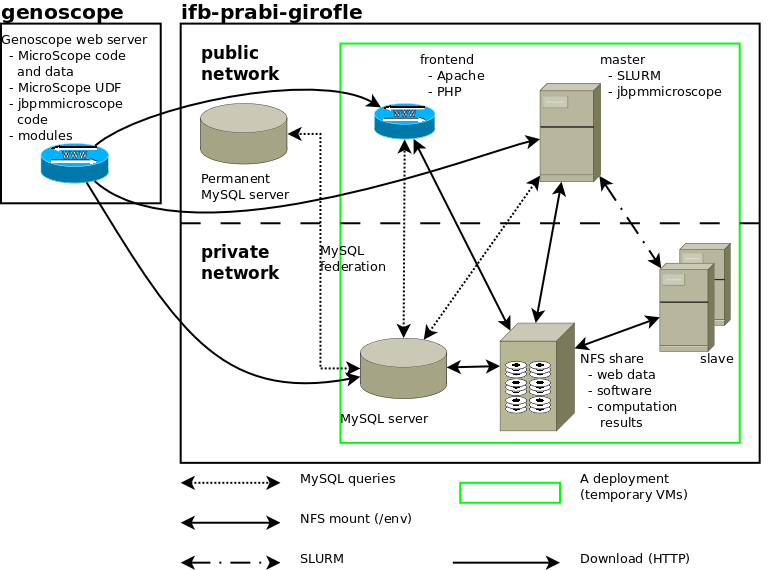
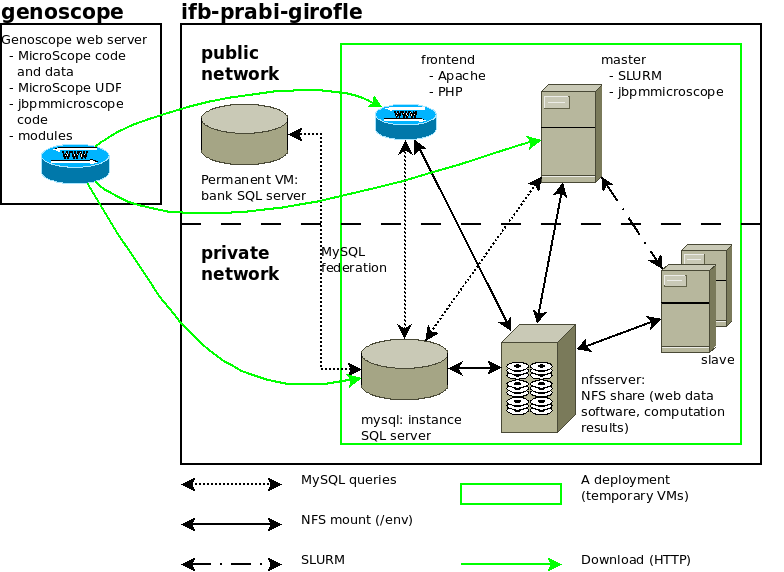
[Report] Large rewrite to add a section on technical choices.
- New chapter on technical details containing overview of the
    architecture (from architecture.tex) and bits from "Informations
    Logiciels"; links to this chapter
  - Rename architecture.tex -> deploiement_VM.tex + promote headings
  - Remove the infamous chapter "Informations Logiciels"
  - Modify the figure (it can no longer pretend to be the logical
    architecture though)

diff --git a/Rapport/deploiement_VM.tex b/Rapport/deploiement_VM.tex
@@ -1,4 +1,4 @@
-\chapter{Architecture}
+\chapter{Installation et déploiement des VM} \label{chap:deploiement_VM}
 
 Dans ce chapitre, on ne fait pas toujours la distinction entre un composant (au sens de composant SlipStream)
 et une VM (qui est un composant déployé).
@@ -10,39 +10,8 @@ Le contexte devrait permettre d'éviter toute ambiguïté.
 
 \section{Vue d'ensemble}
 
-La vue d'ensemble de l'architecture est présentée dans la~\autoref{fig:architecture}.
 Il y 5 composants Nuvla et
 1 VM permanente déployée sur le cloud \cloudInstance{ifb-prabi-girofle}.
-
-\begin{figure}[htp]
-    \centering
-    \includegraphics[width=\linewidth]{../Logical_Architecture}
-    \caption{Schéma de l'architecture de MicroCloud.}
-    \label{fig:architecture}
-\end{figure}
-
-Un des buts est de mimer ce qui est fait au Genoscope
-c'est-à-dire que:
-\begin{enumerate}
-    \item Les différents composants (serveur web, serveur de BD, etc.) tournent sur des machines séparées.
-    \item Les calculs tournent sur des machines séparées: l'architecture contient donc un cluster (basé sur SLURM).
-\end{enumerate}
-Une des seules différences est que le serveur \component{jbpmmicroscope} tourne
-sur la machine frontale du cluster.
-
-Lors du déploiement, les VM téléchargent des fichiers (code et données) depuis le serveur web du Genoscope.
-Ces fichiers sont crées par le module \micWEBdeployVer{} (voir~\autoref{chap:micwebdeploy}).
-Le gros du travail du travail est fait dans les scripts de la phase Deployment (script \script{04\_Deployment.sh} de chaque composant SlipStream).
-Ceci a été fait pour simplifier les scripts d'installation et ne pas fixer les versions de MicroScope à ces étapes.
-
-Il y a 2 serveurs de bases de données dans MicroCloud\todo{Renvoyer à section choix techniques.}:
-\begin{itemize}
-    \item Un serveur MySQL installé via Docker dans la VM MySQL.
-    \item Un serveur MySQL sur la VM permanente.
-\end{itemize}
-
-\section {Installation et déploiement des VM}
-
 Le code des composants Nuvla est dans le dépôt \project{biosphere-microcloud}.
 Il y a un dossier par composant et un fichier \filename{README.md} dans chaque dossier qui explique des détails.
 Les principes du déploiement sont décrits sur le wiki du projet (voir la page
@@ -64,12 +33,12 @@ Les sections suivantes présentent quelques détails sur les VM:
 Comme expliqué, le code de chaque composant est dans un dossier éponyme dans le dépôt biosphere-microcloud.
 Dans les sections sus-citées, le nom des scripts est relatif à ce dossier (sauf mention contraire).
 
-\subsection {Composant \SScomponent{frontend}}\label{frontend}
+\section{Composant \SScomponent{frontend}}\label{frontend}
 
 La composant \SScomponent{frontend} permet de déployer la partie web de la plateforme MicroScope.
 L'image de base est une image CentOS 7.
 
-\paragraph*{Configuration}
+\subsection{Configuration générale}
 
 Le script \script{04\_Deployment.sh} réalise un certain nombre d'opérations avant l'installation de MicroScope:
 \begin{itemize}
@@ -86,7 +55,7 @@ Le script \script{04\_Deployment.sh} réalise un certain nombre d'opérations av
     La VM \SScomponent{frontend} utilise un client mariaDB (et non pas MySQL du fait de conflits existants entre le dépôt remi-php71 installé et le dépôt IUS qui fournit le client MySQL).
 \end{mycolorbox}
 
-\paragraph*{Installation de MicroScope}
+\subsection{Installation de MicroScope}
 
 Le script \script{install\_microscope.sh} réalise l'installation de MicroScope:
 \begin{itemize}
@@ -98,24 +67,24 @@ Le script \script{install\_microscope.sh} réalise l'installation de MicroScope:
           et des scripts dans \path{/var/www/binphp/} (variable \variable{BIN} dans la configuration de MicroScope).
 \end{itemize}
 
-\paragraph*{Import des données de l'organisme \theOrg{}}
+\subsection{Import des données de l'organisme \theOrg{}}
 
 Les données de \theOid{} sont copiées avec le script \script{import\_Oid.sh}.
 
 \begin{mycolorbox}
     Si lors de la connexion au serveur web le message d'erreur \textbf{256} s'affiche, cela signifie qu'il n'y a pas d'organisme en base.
     De ce fait, la plupart des onglets ainsi que le formulaire d'authentification sont inaccessibles.
-    Ceci ne doit pas arriver si le déploiement se passe bien car on on copie les données d'un organisme.
+    Ceci ne doit pas arriver si le déploiement se passe bien mais en cas de modifications des scripts cela peut arriver.
 \end{mycolorbox}
 
-\paragraph*{Création des liens FEDERATED}
+\subsection{Création des liens FEDERATED}
 
 Les liens FEDERATED vers la VM permanente (qui permettent d'accéder aux base représentant les banques) sont crées
 dans le script \script{create\_federated\_links.sh}.
 Le script crée automatique un lien avec toutes les BD présentes sur la VM permanente sauf les BD système (\DB{mysql}, \DB{information\_schema}, \DB{performance\_schema}, \DB{sys})
 et celles liées à \component{phpMyAdmin}.
 
-\subsection {Composant \SScomponent{mysql}}\label{mysql}
+\section{Composant \SScomponent{mysql}}\label{mysql}
 
 Le composant \SScomponent{mysql} est le serveur de base de données de l'instance.
 L'image de base est une image CentOS 7.
@@ -125,7 +94,7 @@ Comme cette VM se trouve sur le réseau privé, il faut passer par la VM fronten
 ssh -A centos@${IP_mysql} -J centos@${IP_frontend}
 \end{lstlisting}
 
-\paragraph*{Installation de MySQL}
+\subsection{Installation de MySQL}
 
 Le serveur MySQL est installé via Docker.
 La seule subtilité est qu'il faut démarrer MySQL l'option \variable{-{}-federated} pour activer le moteur FEDERATED.
@@ -138,7 +107,7 @@ docker ps -a
 docker start ${ID_container}
 \end{lstlisting}
 
-\paragraph*{Installation des fonctions UDF de MicroScope}
+\subsection{Installation des fonctions UDF de MicroScope}
 
 Les fonctions UDF nécessaires à MicroScope (\component{lib\_mysqludf\_sequtils})
 sont téléchargées depuis le Genoscope et
@@ -151,7 +120,7 @@ sont installées dans le docker.
     et que \component{lib\_mysqludf\_sequtils} évolue peu.
 \end{mycolorbox}
 
-\subsection {VM permanente}\label{VMpermanente}
+\section{VM permanente}\label{VMpermanente}
 
 C'est une VM OpenStack (\hostname{umr5558-microcloud.univ-lyon1.fr}, IP 134.214.33.214) du cloud \cloudInstance{ifb-prabi-girofle} disposant de 200 Go de stockage et 8 Go de RAM (elle est actuellement sous-dimensionnée par rapport à nos besoins).
 L'image de base est une image Debian 9.8.
@@ -168,7 +137,7 @@ Pour se connecter :
 ssh root@134.214.33.214
 \end{lstlisting}
 
-\paragraph*{Création des BD et copie des données}
+\subsection{Création des BD et copie des données}
 
 Le serveur MySQL contient les schémas des banques et les données nécessaires pour les tests (nous avons testés les onglets \textbf{Genome Browser}, \textbf{Identical Gene Names}):
 \begin{itemize}
@@ -187,9 +156,7 @@ Pour se connecter au serveur MySQL :
 mysql -p{MOT_DE_PASSE_SERVEUR_MYSQL_VM_PERMANENTE}
 \end{lstlisting}
 
-\subsection{Compoants \SScomponent{master} et \SScomponent{slave}} \label{master&slave}
-
-\todo[inline]{Ajouter les notes sur jbpmmicroscope ici ? Notes sur conda et l'installation des modules ? Plutôt dans la partie choix techniques.}
+\section{Compoants \SScomponent{master} et \SScomponent{slave}} \label{master&slave}
 
 Ces 2 composants permettent de créer un cluster basé sur SLURM sur lequel \component{jbpmmicroscope} soumet les jobs:
 \SScomponent{master} est la frontale et \SScomponent{slave} est un nœud de calcul.
@@ -199,12 +166,12 @@ Le code SlipStream est basé sur les travaux de Jonathan Lorenzo et Bryan Branco
     l'appliance \href{https://nuv.la/module/ifb/devzone/jlorenzo/cluster/Slurm_Cluster_ubuntu18}{\SScomponent{Slurm\_Cluster\_ubuntu18}}.
           L'image de base de ces composants est une image Ubuntu 18.04.
     \item Le code d'installation de ces composants a été copié depuis le dépôt \project{biosphere-commons}
-          puis modifié pour les besoins de MicroCloud\todo{Préciser çà}.
+          puis modifié pour les besoins de MicroCloud\todo{Préciser ça}.
 \end{itemize}
 Le composant \component{slave} peut être instancié plusieurs fois (2 par défaut).
 Ceci est choisi lors du déploiement (voir~\autoref{chap:deploiement}).
 
-\paragraph*{Généralités}
+\subsection{Généralités}
 
 Les composants \SScomponent{master} et \SScomponent{slave} montent le dossier partagé \path{/env/} (voir~\autoref{nfsserver}).
 Le composant \SScomponent{slave} est peu modifié par rapport aux scripts de J. Lorenzo et B. Brancotte.
@@ -212,15 +179,28 @@ En revanche, le composant \SScomponent{master} est plus complexe car
 c'est sur lui qu'on installe \component{jbpmmicroscope} (et donc \component{Tomcat})
 et les logiciels partagés entre la frontale et les nœuds de calcul.
 
-\paragraph*{Installation de \component{jbpmmicroscope}}
+Le composant \SScomponent{master} crée un alias du composant \SScomponent{mysql} sous le nom \hostname{mysqlagcdb.genoscope.cns.fr}.
+Ceci est utilisé pour l'installation de \component{jbpmmicroscope} (voir~\autoref{sec:installation_jbpmmicroscope}).
 
-\component{jbpmmicroscope} et le serveur d'application \href{http://mirrors.ircam.fr/pub/apache/tomcat/tomcat-9/v9.0.31/bin/apache-tomcat-9.0.31.tar.gz}{\component{Tomcat} version 9.0.31}
-sont installés par \script{install\_jbpm.sh} à partir des fichiers téléchargés depuis le Genoscope.
-Le script n'est pas très compliqué.
+\subsection{Installation de \component{jbpmmicroscope}}
 
-Pour accéder à Tomcat : http://\$IP\_master.
+Le script installe \script{install\_jbpm.sh}:
+\begin{enumerate}
+    \item le serveur d'application \href{http://mirrors.ircam.fr/pub/apache/tomcat/tomcat-9/v9.0.31/bin/apache-tomcat-9.0.31.tar.gz}{\component{Tomcat} version 9.0.31} dans \path{/env/cns/proj/agc/tools/COMMON/JBPMmicroscope/tomcat}.
+    Les identifiants tomcat sont les suivants:
+    \begin{description}
+        \item[login:] \variable{tomcat}
+        \item[password:] \variable{tomcat}
+    \end{description}
+    Ces identifiants peuvent être modifiés dans le composant master, ils correspondent aux paramètres \variable{tomcat\_user} et \variable{tomcat\_password}.
+    Pour accéder à Tomcat : http://\$IP\_master.
 
-\paragraph*{Installation de \component{pegasus-mpi-cluster}}
+    \item \component{jbpmmicroscope} est installé à partir des fichiers téléchargés depuis le Genoscope
+    dans path{/env/cns/proj/agc/tools/COMMON/JBPMmicroscope/jbpmmicroscope}.
+    Pour les logins et les mots de passe, voir~\autoref{sec:installation_jbpmmicroscope}.
+\end{enumerate}
+
+\subsection{Installation de \component{pegasus-mpi-cluster}}
 
 \component{bagsub} s'appuie sur \component{pegasus-mpi-cluster}.
 Nous avons installé (\href{https://github.com/pegasus-isi/pegasus/archive/4.9.2.zip}{\component{pegasus-mpi-cluster} version 4.9.2}).
@@ -228,7 +208,7 @@ Le code téléchargé ne compile pas à cause car la librairie \component{libnum
 Comme celle-ci n'est pas nécessaire pour les architectures non-NUMA, nous modifions les fichiers \filename{Makefile}
 pour supprimer la dépendance à \component{libnuma}.
 
-\paragraph*{Installation des modules (dont \component{bagsub})}
+\subsection{Installation des modules (dont \component{bagsub})}
 
 Chaque workflow fait appel à différents modules qu'il faut installer au préalable sur la VM master.
 Le script \script{import\_modules.sh} permet d'importer les archives des différents modules nécessaires au fonctionnement des workflows (WF DIRECTON principalement).
@@ -238,7 +218,7 @@ on supprime l'option ulimit qui ne fonctionne pas en \component{dash} (le shell 
 et ajoute le paramètre MCA \variable{btl\_tcp\_if\_exclude} pour exclure les interfaces réseaux \hostname{docker0} et \hostname{lo} qui peuvent engendrer des conflits lors du lancement de jobs SLURM.
 
 
-\subsection{Composant \SScomponent{nfsserver}} \label{nfsserver}
+\section{Composant \SScomponent{nfsserver}} \label{nfsserver}
 
 Le composant \SScomponent{nfsserver} a été créé en s'inspirant du travail de Stéphane Delmotte.
 Il permet de fournir un dossier partagé entre les différentes VM.

diff --git a/Rapport/creer_nouvelle_version.tex b/Rapport/creer_nouvelle_version.tex
@@ -74,19 +74,20 @@ createModulesTarball.py --modules_list bagsub-2.4.3 AGCScriptToolMic-2.0 micGeno
 Actuellement l'environnement de MicroCloud ne permet d'utiliser que les modules \module[2.4.3]{bagsub}, \module[2.0]{AGCScriptToolMic}, \module[7.0.0]{micGenome}, \module[3.10.8]{micJBPMwrapper}, \module[2.0]{micPrestation} et \module[1.0]{micDirecton}.
 
 \begin{mycolorbox}
-    Lors de tout ajout de nouveaux modules, il faut modifier le script de l'étape Depolyment de la VM master
+    Lors de tout ajout de nouveaux modules, il faut modifier le script de l'étape Depolyment de la VM \SScomponent{master}
     pour faut ajouter les variables d'environnement nécessaires aux nouveaux modules
     dans le fichier \path{microcloud.profile}.
 \end{mycolorbox}
 
 \section{Mettre à jour \component{jbpmmicroscope}} \label{sec:nouvelle_version_jbpmmicroscope}
 
-MicroCloud utilise une version de \component{jbpmmicroscope} compilée avec des options spéciales.
+MicroCloud utilise une version de \component{jbpmmicroscope} compilée avec des options spéciales (voir ~\autoref{sec:installation_jbpmmicroscope}).
 
 La configuration d'un environnement de développement pour \component{jbpmmicroscope} est expliquée
 dans la page \href{https://intranet.genoscope.cns.fr/agc/redmine/projects/microscopeworkflow/wiki/JBPMprocedure}{[[JBPM procedure environnement de dev/declaration nouveau workflow]]}.
+Il faut utiliser la branche \path{config_microcloud} et non \path{trunk}.
 
-Une fois ceci fait, il faut compiler \component{jbpmmicroscope-client} avec le profil \texttt{config-microcloud}:
+Une fois ceci fait, il faut compiler \component{jbpmmicroscope-client} avec le profil \variable{config-microcloud}:
 \begin{lstlisting}[style=bash]
 mvn -Pconfig-microcloud -s ~/.m2/genosphere-settings.xml clean install
 \end{lstlisting}
@@ -106,25 +107,6 @@ dans le dossier \path{jbpmmicroscope-server/target}.
 
 Copier le .war et les .jar sur \hostname{etna0} dans le répertoire \path{/env/cns/wwwext/html/agc/ftp/MicroCloud/}.
 La VM \SScomponent{master} importe ces fichiers à l'aide de liens symboliques.
-
-Le schéma de la base \DB{JBPMmicroscope} est créé automatiquement par hibernate (voir le paramètre \textbf{hbm2ddl.auto} dans \filename{hibernate.cfg.xml}) lors de la première exécution d'une commande \script{JBPMmicroscope}.
-
-Les identifiants de connexion à la base \DB{JBPMmicroscope} (via hibernate) sont les suivants:
-\begin{description}
-    \item[login:] \texttt{jbpm}
-    \item[password:] \texttt{jbpm}
-\end{description}
-Ces identifiants peuvent être modifiés dans le composant master, ils correspondent aux paramètres \textbf{jbpm\_user} et \textbf{jbpm\_password}.
-Pour modifier ces identifiants, il faut modifier le fichier \path{hibernate.cfg.xml}, régénérer les .jar et le .war et les copier dans \path{/env/cns/wwwext/html/agc/ftp/MicroCloud}).\todo{Mettre dans partie technique}
-
-\component{jbpmmicroscope} nécessite un serveur Tomcat pour fonctionner.
-Tomcat 9 est installé dans le composant master : \path{/env/cns/proj/agc/tools/COMMON/JBPMmicroscope/tomcat}.
-Les identifiants tomcat sont les suivants:
-\begin{description}
-    \item[login:] \texttt{tomcat}
-    \item[password:] \texttt{tomcat}
-\end{description}
-Ces identifiants peuvent être modifiés dans le composant master, ils correspondent aux paramètres \textbf{tomcat\_user} et \textbf{tomcat\_password}.
 
 \section{Mettre à jour la VM permanente}
 \todo{Compléter cette partie + ajouter un lien au début}

diff --git a/Rapport/perspectives.tex b/Rapport/perspectives.tex
@@ -21,7 +21,7 @@ Les instructions pour le déployer sont dans le~\autoref{chap:deploiement}.
 Pour cela, nous avons réalisé une procédure d'installation de MicroScope.
 Ainsi, nous avons pu mieux comprendre les interactions entre les composants.
 Ceci a été en particulier utile pour le composant \component{jbpmmicroscope} dont l'installation et la configuration
-se sont avérées très délicates\todo{faire une section sur ça.}.
+se sont avérées très délicates (voir~\autoref{sec:installation_jbpmmicroscope}).
 
 \subsection{Identification de limites dans MicroScope} \label{subsec:limites_microscope}
 
@@ -44,11 +44,11 @@ Le projet a aussi permis d'identifier un certains nombre de limites des architec
 Ces limites concernent principalement le stockage.
 
 En effet, on ne veut pas reconstituer les banques pour chaque instance de MicroCloud.
-Pour cela, nous  avons déployé une VM permanente (voir section \ref{VMpermanente}) dans le cloud \cloudInstance{ifb-prabi-girofle}
+Pour cela, nous  avons déployé une VM permanente (voir section \ref{sec:acces_banques}) dans le cloud \cloudInstance{ifb-prabi-girofle}
 qui héberge les BD MySQL représentant les banques.
 Pour des raisons techniques, seules les VM déployées dans le cloud \cloudInstance{ifb-prabi-girofle}
-peuvent accéder à cette VM
-Ainsi MicroCloud ne peut être déployé que sur le cloud \cloudInstance{ifb-prabi-girofle}.\todo{Lien vers une section qui donne les détails techniques.}
+peuvent accéder à cette VM.
+Ainsi MicroCloud ne peut être déployé que sur le cloud \cloudInstance{ifb-prabi-girofle}.
 Cependant, nous n'avons pas suffisamment de place pour télécharger toutes les banques de MicroScope sur la VM permanente.
 À l'heure actuelle, seule la banque UNIPROTKBDB est disponible.
 
@@ -96,7 +96,6 @@ Les principales améliorations au prototype sont:
 \begin{itemize}
     \item Résoudre le problèmes des banques.
           Ceci passe sans doute par l'améliorations de l'infrastructure de Biosphere.
-    \item Améliorer l'installation des dépendances pour les WF.
 \end{itemize}
 
 
@@ -105,6 +104,7 @@ D'un point de vue technique, les améliorations sont:
     \item Certains déploiements échouent.
           Il semble que ces problèmes soient dus à l'installation du paquet \textbf{procps}.
           Il vaut mieux en lancer 2 en même temps afin d'être sûr d'en avoir au moins un de fonctionnel.
+    \item Améliorer l'installation des dépendances pour les WF (voir~\autoref{sec:installation_logiciels_metier})\todo[inline]{Est-ce que je détaille ?}.
     \item Améliorations du côté de \project{biosphère-commons} (option -e).
     \item Certains scripts sont sourcés avec une option (ce qui est valide en bash mais n'est pas portable).
     \item Paralléliser les scripts pour diminuer le temps de déploiement (en particulier pouvoir faire le maximum de choses avant d'attendre les signaux des autres composants).

diff --git a/Rapport/microcloud.tex b/Rapport/microcloud.tex
@@ -96,6 +96,7 @@
 \newcommand{\micWEBdeploy}{\module{micWEBdeploy}}
 \newcommand{\micWEBdeployVer}{\module[0-MicroCloud-1.0]{micWEBdeploy}}
 \newcommand{\cloudInstance}[1]{\textbf{#1}}
+\newcommand{\mageInstance}[1]{\textbf{#1}}
 \newcommand{\project}[1]{\texttt{#1}}
 \newcommand{\hostname}[1]{\texttt{#1}}
 \newcommand{\variable}[1]{\texttt{#1}}
@@ -149,6 +150,8 @@ et de leur implémentation ainsi qu'à fournir un guide utilisateur.
 
 \input{perspectives}
 
+\input{choix_techniques}
+
 \part{Guide d'utilisation}
 
 \input{deploiement_microcloud}
@@ -157,12 +160,8 @@ et de leur implémentation ainsi qu'à fournir un guide utilisateur.
 
 \part{Détails techniques}
 
-%\input{choix_techniques}
-
-\input{architecture}
+\input{deploiement_VM}
 
 \input{module_microcloud}
-
-\input{information_logiciels}
 
 \end{document}
